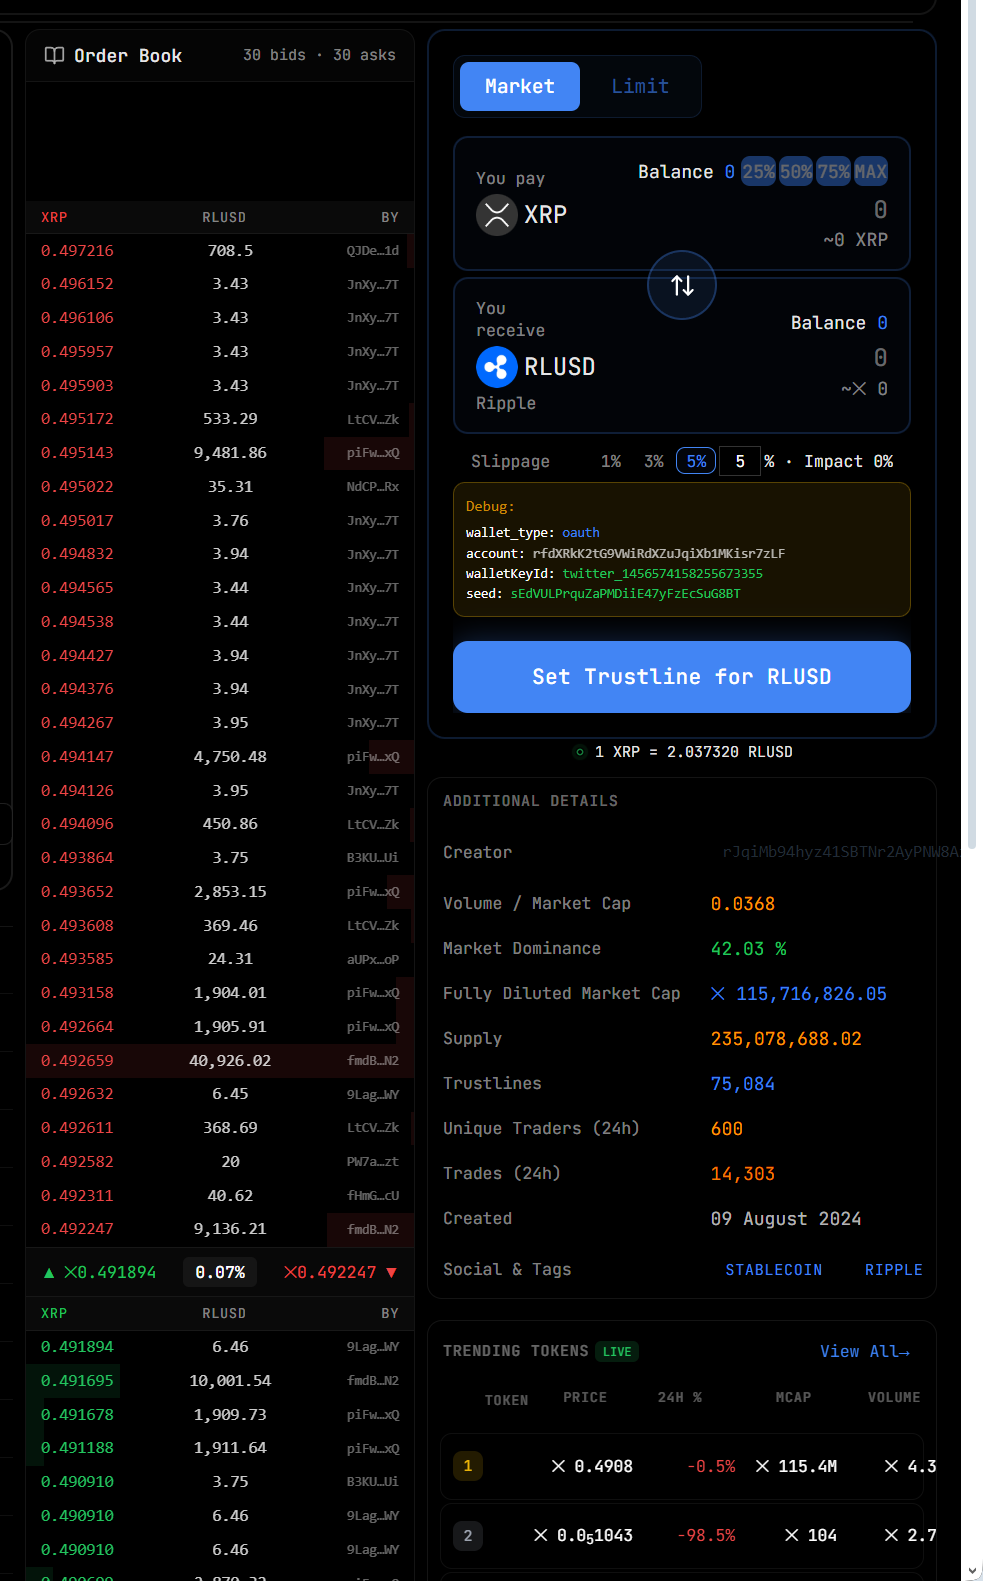
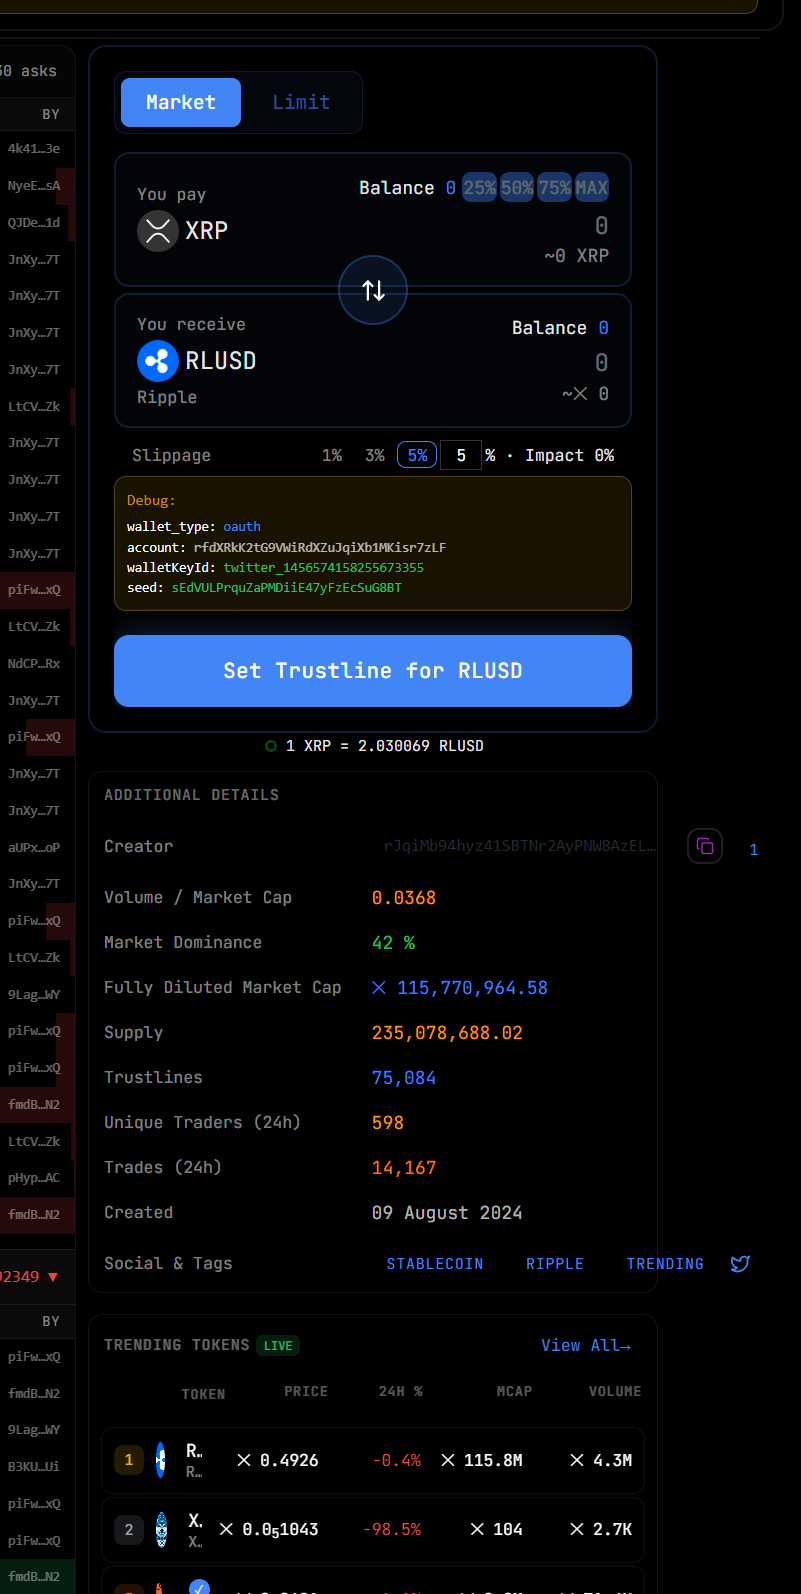
fixes

diff --git a/src/TokenDetail/tabs/overview/OrderBook.js b/src/TokenDetail/tabs/overview/OrderBook.js
@@ -52,9 +52,12 @@ const Content = styled.div`
   flex-direction: column;
   flex: 1;
   min-height: 0;
+  overflow: hidden;
 `;
 
 const Side = styled.div`
+  flex: 1;
+  min-height: 0;
   overflow-y: auto;
   scrollbar-width: none;
   -ms-overflow-style: none;
@@ -80,15 +83,16 @@ const Row = styled.div`
   display: flex;
   justify-content: space-between;
   align-items: center;
-  padding: 3px 10px;
+  padding: 4px 10px;
   position: relative;
   cursor: pointer;
   font-size: 11px;
   font-family: monospace;
+  transition: background 0.1s;
   &:hover {
     background: ${props => props.type === 'ask'
-      ? 'rgba(239, 68, 68, 0.08)'
-      : 'rgba(34, 197, 94, 0.08)'};
+      ? 'rgba(239, 68, 68, 0.12)'
+      : 'rgba(34, 197, 94, 0.12)'};
   }
 `;
 
@@ -98,10 +102,11 @@ const DepthBar = styled.div`
   bottom: 0;
   ${props => props.type === 'bid' ? 'left: 0;' : 'right: 0;'}
   background: ${props => props.type === 'ask'
-    ? 'rgba(239, 68, 68, 0.1)'
-    : 'rgba(34, 197, 94, 0.1)'};
+    ? 'rgba(239, 68, 68, 0.15)'
+    : 'rgba(34, 197, 94, 0.15)'};
   width: ${props => props.width}%;
   pointer-events: none;
+  transition: width 0.2s ease-out;
 `;
 
 const Price = styled.span`
@@ -131,11 +136,13 @@ const SpreadBar = styled.div`
   display: flex;
   justify-content: space-between;
   align-items: center;
-  padding: 6px 12px;
-  background: ${props => props.isDark ? 'rgba(255,255,255,0.03)' : 'rgba(0,0,0,0.03)'};
-  border-top: 1px solid ${props => props.isDark ? 'rgba(255,255,255,0.06)' : 'rgba(0,0,0,0.06)'};
-  border-bottom: 1px solid ${props => props.isDark ? 'rgba(255,255,255,0.06)' : 'rgba(0,0,0,0.06)'};
+  padding: 8px 12px;
+  background: ${props => props.isDark ? 'rgba(255,255,255,0.04)' : 'rgba(0,0,0,0.04)'};
+  border-top: 1px solid ${props => props.isDark ? 'rgba(255,255,255,0.08)' : 'rgba(0,0,0,0.08)'};
+  border-bottom: 1px solid ${props => props.isDark ? 'rgba(255,255,255,0.08)' : 'rgba(0,0,0,0.08)'};
   font-size: 11px;
+  font-family: monospace;
+  flex-shrink: 0;
 `;
 
 const OrderBook = ({ token, onPriceClick }) => {

diff --git a/src/TokenDetail/tabs/overview/index.js b/src/TokenDetail/tabs/overview/index.js
@@ -128,14 +128,14 @@ const Overview = memo(
           "flex flex-col md:flex-row items-stretch",
           isMobile ? "gap-1" : "gap-2"
         )}>
-          {/* Left: Chart + TradingHistory stacked - flex grow */}
+          {/* Left: Chart + TradingHistory stacked */}
           <div className="w-full md:flex-1 min-w-0 flex flex-col gap-2">
-            <section aria-label="Price Chart" style={{ height: '500px' }}>
+            <section aria-label="Price Chart" style={{ height: '500px', position: 'relative', zIndex: 10 }}>
               <h2 className="sr-only">Price Chart</h2>
               <PriceChart token={token} />
             </section>
             {!isMobile && !isTablet && (
-              <section aria-label="Trading History">
+              <section aria-label="Trading History" style={{ position: 'relative', zIndex: 0 }}>
                 <h2 className="sr-only">Trading History</h2>
                 <TradingHistory
                   tokenId={token.md5}
@@ -151,14 +151,14 @@ const Overview = memo(
 
           {/* Middle: OrderBook - fixed width, stretch height */}
           {!isMobile && !isTablet && (
-            <aside className="w-[260px] flex-shrink-0" aria-label="Order Book">
+            <aside className="w-[280px] flex-shrink-0" aria-label="Order Book">
               <h2 className="sr-only">Order Book</h2>
               <OrderBook token={token} />
             </aside>
           )}
 
-          {/* Right sidebar: Swap, Stats, Trending - fixed width */}
-          <aside className="w-full md:w-[340px] md:flex-shrink-0 flex flex-col gap-2" aria-label="Trading Tools">
+          {/* Right sidebar: Swap, Stats, Trending - fills remaining space */}
+          <aside className="w-full md:w-[420px] md:flex-shrink-0 flex flex-col gap-2" aria-label="Trading Tools">
             <h2 className="sr-only">Swap</h2>
             <Swap
               token={token}

diff --git a/src/TokenDetail/tabs/overview/TrendingTokens.js b/src/TokenDetail/tabs/overview/TrendingTokens.js
@@ -39,6 +39,7 @@ const Container = styled('div')(({ isDark }) => ({
   position: 'relative',
   overflow: 'hidden',
   width: '100%',
+  minWidth: 0,
   marginBottom: '6px'
 }));
 
@@ -48,6 +49,8 @@ const TokenCard = styled('div')(({ isDark }) => ({
   borderRadius: '8px',
   padding: '6px 8px',
   cursor: 'pointer',
+  width: '100%',
+  minWidth: 0,
   '&:hover': {
     background: isDark ? 'rgba(255,255,255,0.02)' : 'rgba(0,0,0,0.02)'
   }
@@ -402,9 +405,10 @@ const TrendingTokens = () => {
         <Box
           style={{
             display: 'grid',
-            gridTemplateColumns: '70px 55px 65px 65px',
-            gap: '8px',
-            marginLeft: 'auto'
+            gridTemplateColumns: '75px 55px 70px 70px',
+            gap: '6px',
+            marginLeft: 'auto',
+            flexShrink: 0
           }}
         >
           <Typography isDark={darkMode} style={{ fontSize: '9px', textTransform: 'uppercase', fontWeight: 500, letterSpacing: '0.5px', textAlign: 'right', color: darkMode ? 'rgba(255,255,255,0.35)' : 'rgba(0,0,0,0.35)' }}>
@@ -561,9 +565,10 @@ const TrendingTokens = () => {
                   <Box
                     style={{
                       display: 'grid',
-                      gridTemplateColumns: isMobile ? '55px 65px' : '70px 55px 65px 65px',
-                      gap: '8px',
-                      marginLeft: 'auto'
+                      gridTemplateColumns: isMobile ? '55px 65px' : '75px 55px 70px 70px',
+                      gap: '6px',
+                      marginLeft: 'auto',
+                      flexShrink: 0
                     }}
                   >
                     {!isMobile && (

diff --git a/src/TokenDetail/tabs/overview/Swap.js b/src/TokenDetail/tabs/overview/Swap.js
@@ -501,12 +501,13 @@ const OverviewWrapper = styled.div`
   overflow: hidden;
   box-sizing: border-box;
   position: relative;
-  border-radius: 12px;
+  border-radius: 10px;
   display: flex;
   padding: 16px;
   width: 100%;
-  background: ${props => props.isDark ? 'rgba(0,0,0,0.4)' : 'rgba(255,255,255,0.8)'};
-  border: 1.5px solid ${props => props.isDark ? 'rgba(66,133,244,0.2)' : 'rgba(66,133,244,0.15)'};
+  min-width: 0;
+  background: transparent;
+  border: 1px solid ${props => props.isDark ? 'rgba(255,255,255,0.08)' : 'rgba(0,0,0,0.08)'};
   @media (max-width: 600px) {
     border-radius: 10px;
     padding: 12px;
@@ -1647,7 +1648,7 @@ const Swap = ({ token, onOrderBookToggle, orderBookOpen, onOrderBookData }) => {
   };
 
   return (
-    <Stack alignItems="center" width="100%" sx={{ px: { xs: 0, sm: 0 } }}>
+    <Stack alignItems="stretch" width="100%" sx={{ px: { xs: 0, sm: 0 } }}>
       <OverviewWrapper isDark={isDark}>
         {/* XRP page notice - show that we're displaying RLUSD/XRP orderbook */}
         {isXRPTokenPage && (

diff --git a/src/TokenDetail/tabs/overview/TradingHistory.js b/src/TokenDetail/tabs/overview/TradingHistory.js
@@ -911,7 +911,7 @@ const TradingHistory = ({ tokenId, amm, token, pairs, onTransactionClick, isDark
   );
 
   return (
-    <Stack spacing={1} style={{ width: '100%' }}>
+    <Stack spacing={1} style={{ width: '100%', position: 'relative', zIndex: 0 }}>
       <Box style={{ display: 'flex', alignItems: 'center', justifyContent: 'space-between', flexWrap: 'wrap', gap: '8px' }}>
         <Tabs isDark={isDark}>
           <Tab selected={tabValue === 0} onClick={(e) => handleTabChange(e, 0)} isDark={isDark}>Trades</Tab>

diff --git a/src/TokenDetail/tabs/overview/PriceChartAdvanced.js b/src/TokenDetail/tabs/overview/PriceChartAdvanced.js
@@ -43,10 +43,14 @@ const alpha = (color, opacity) => {
 
 const Card = styled.div`
   width: 100%;
+  height: 100%;
   padding: ${props => props.isMobile ? '8px' : '16px'};
   background: transparent;
   border: 1.5px solid ${props => props.isDark ? 'rgba(255,255,255,0.1)' : 'rgba(0,0,0,0.08)'};
   border-radius: 12px;
+  overflow: hidden;
+  position: relative;
+  z-index: 1;
   ${props => props.isFullscreen && `
     position: fixed;
     inset: 0;

diff --git a/src/TokenDetail/tabs/overview/PriceStatistics.js b/src/TokenDetail/tabs/overview/PriceStatistics.js
@@ -264,7 +264,8 @@ export default function PriceStatistics({ token, isDark = false }) {
         background: 'transparent',
         border: `1px solid ${isDark ? "rgba(255,255,255,0.08)" : "rgba(0,0,0,0.08)"}`,
         width: '100%',
-        marginBottom: '6px'
+        marginBottom: '6px',
+        overflow: 'hidden'
       }}
     >
       {/* Scam Warning Dialog */}
